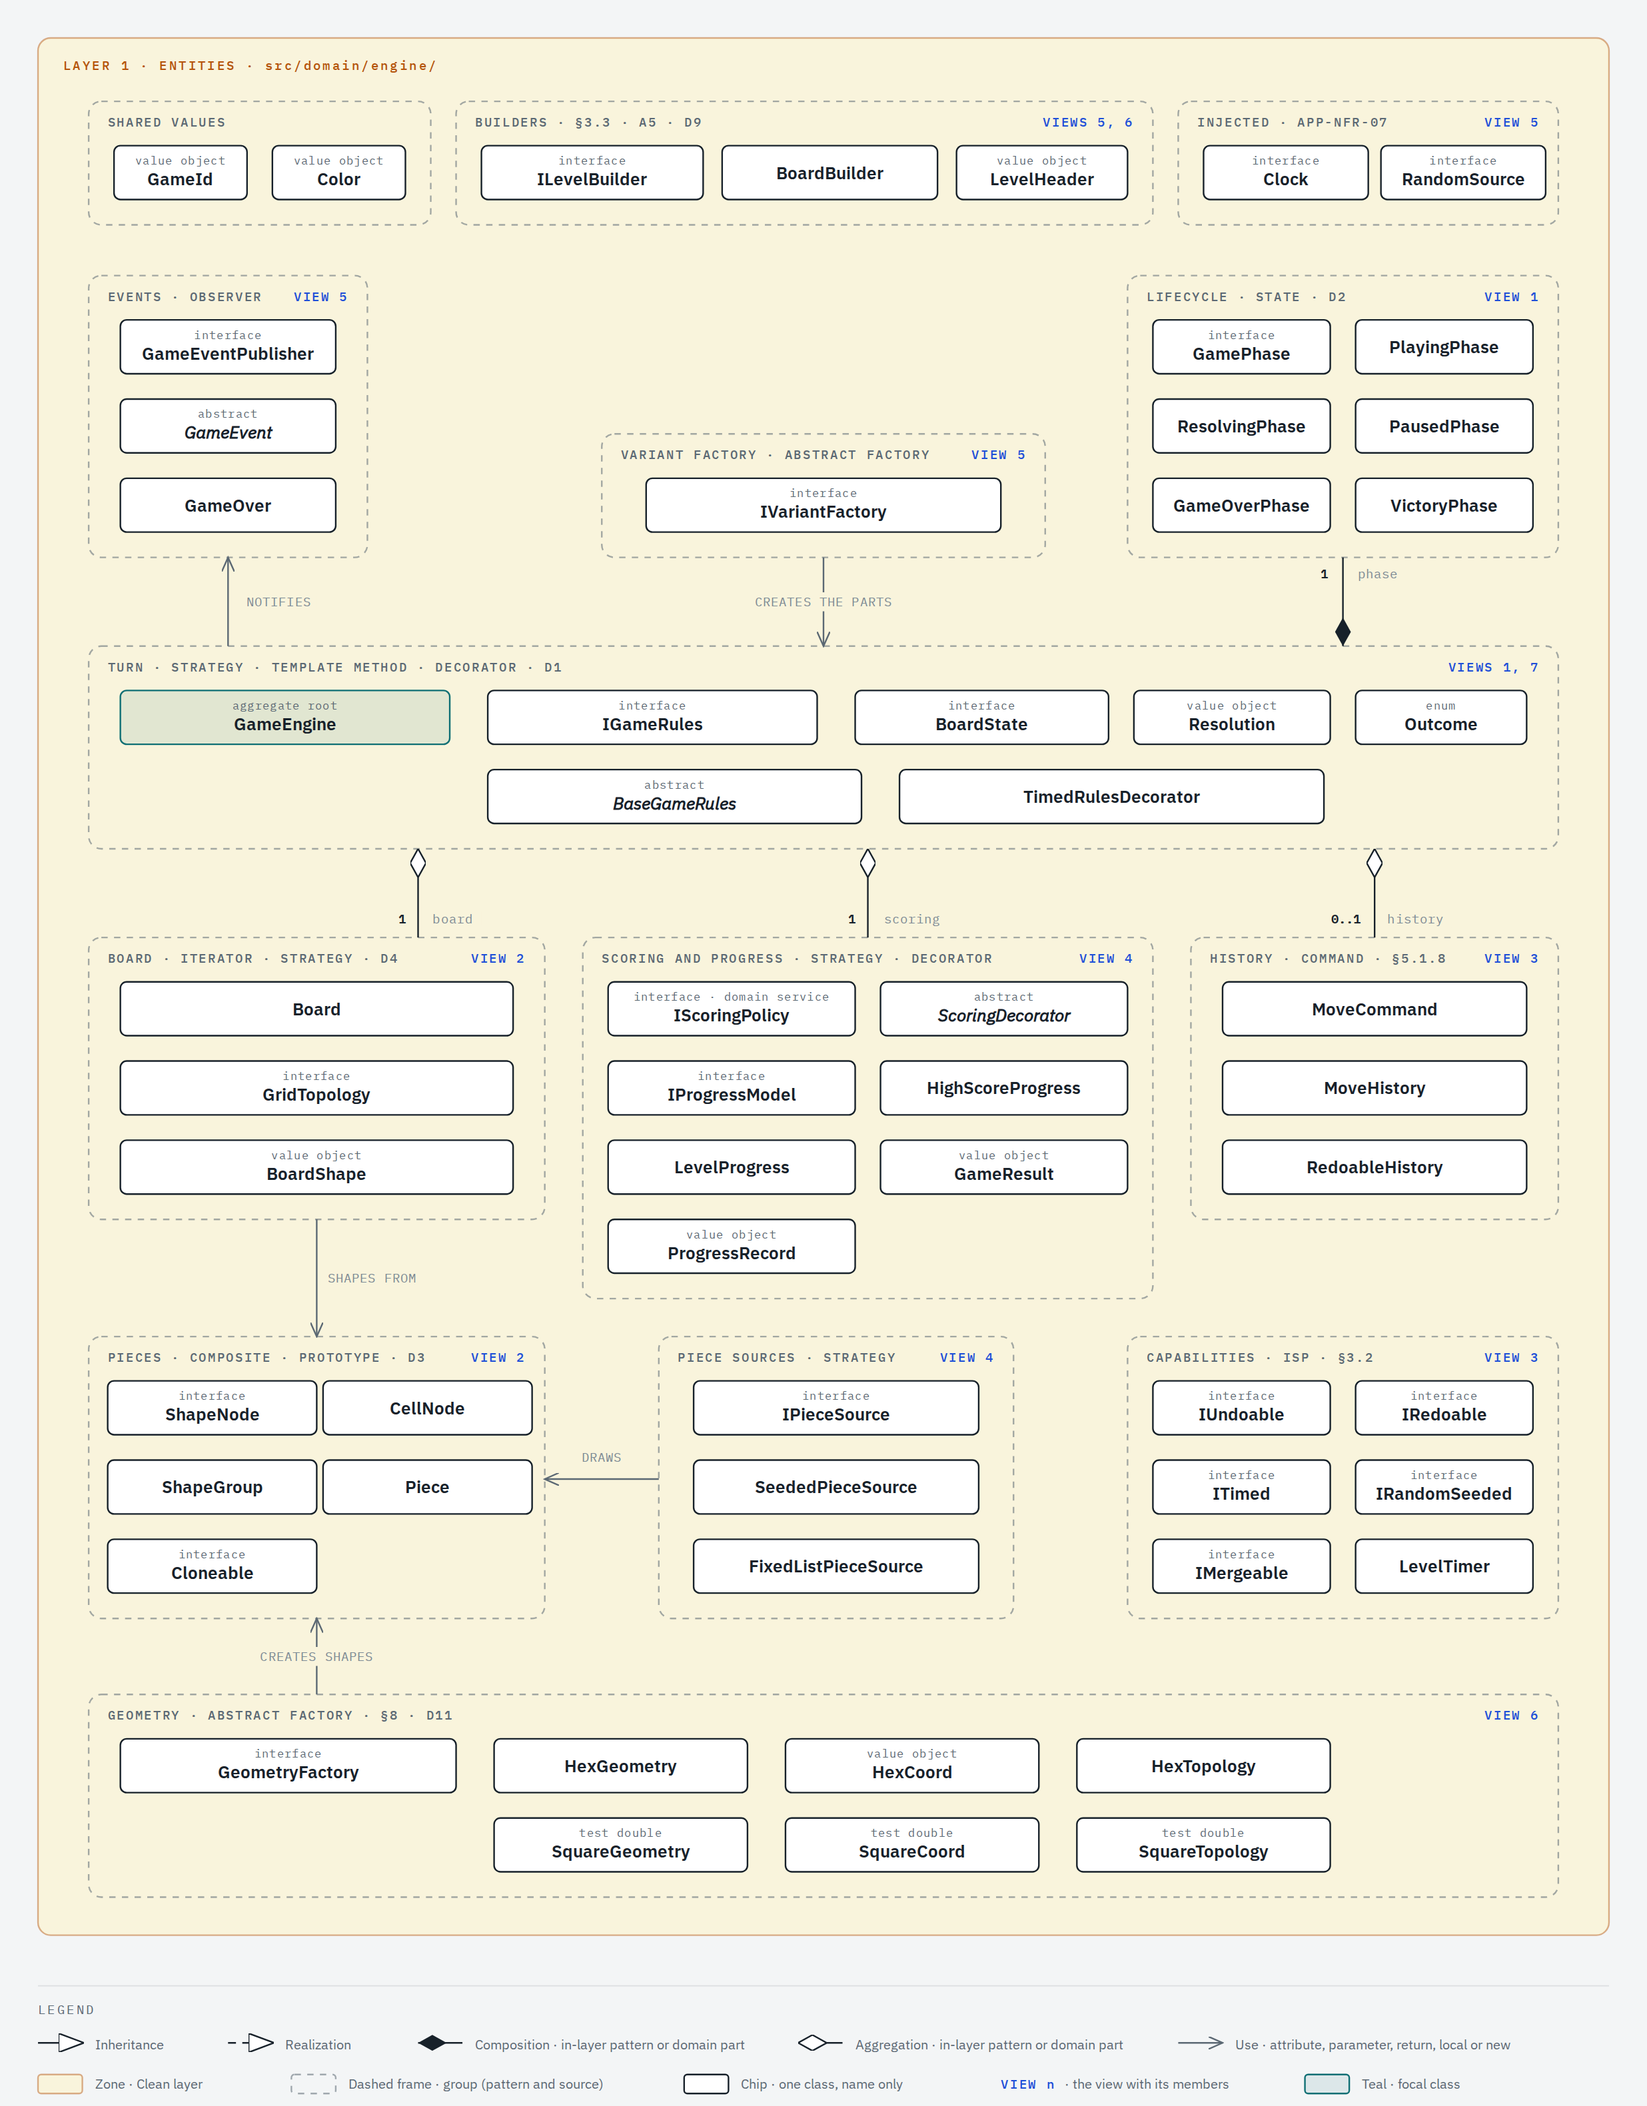
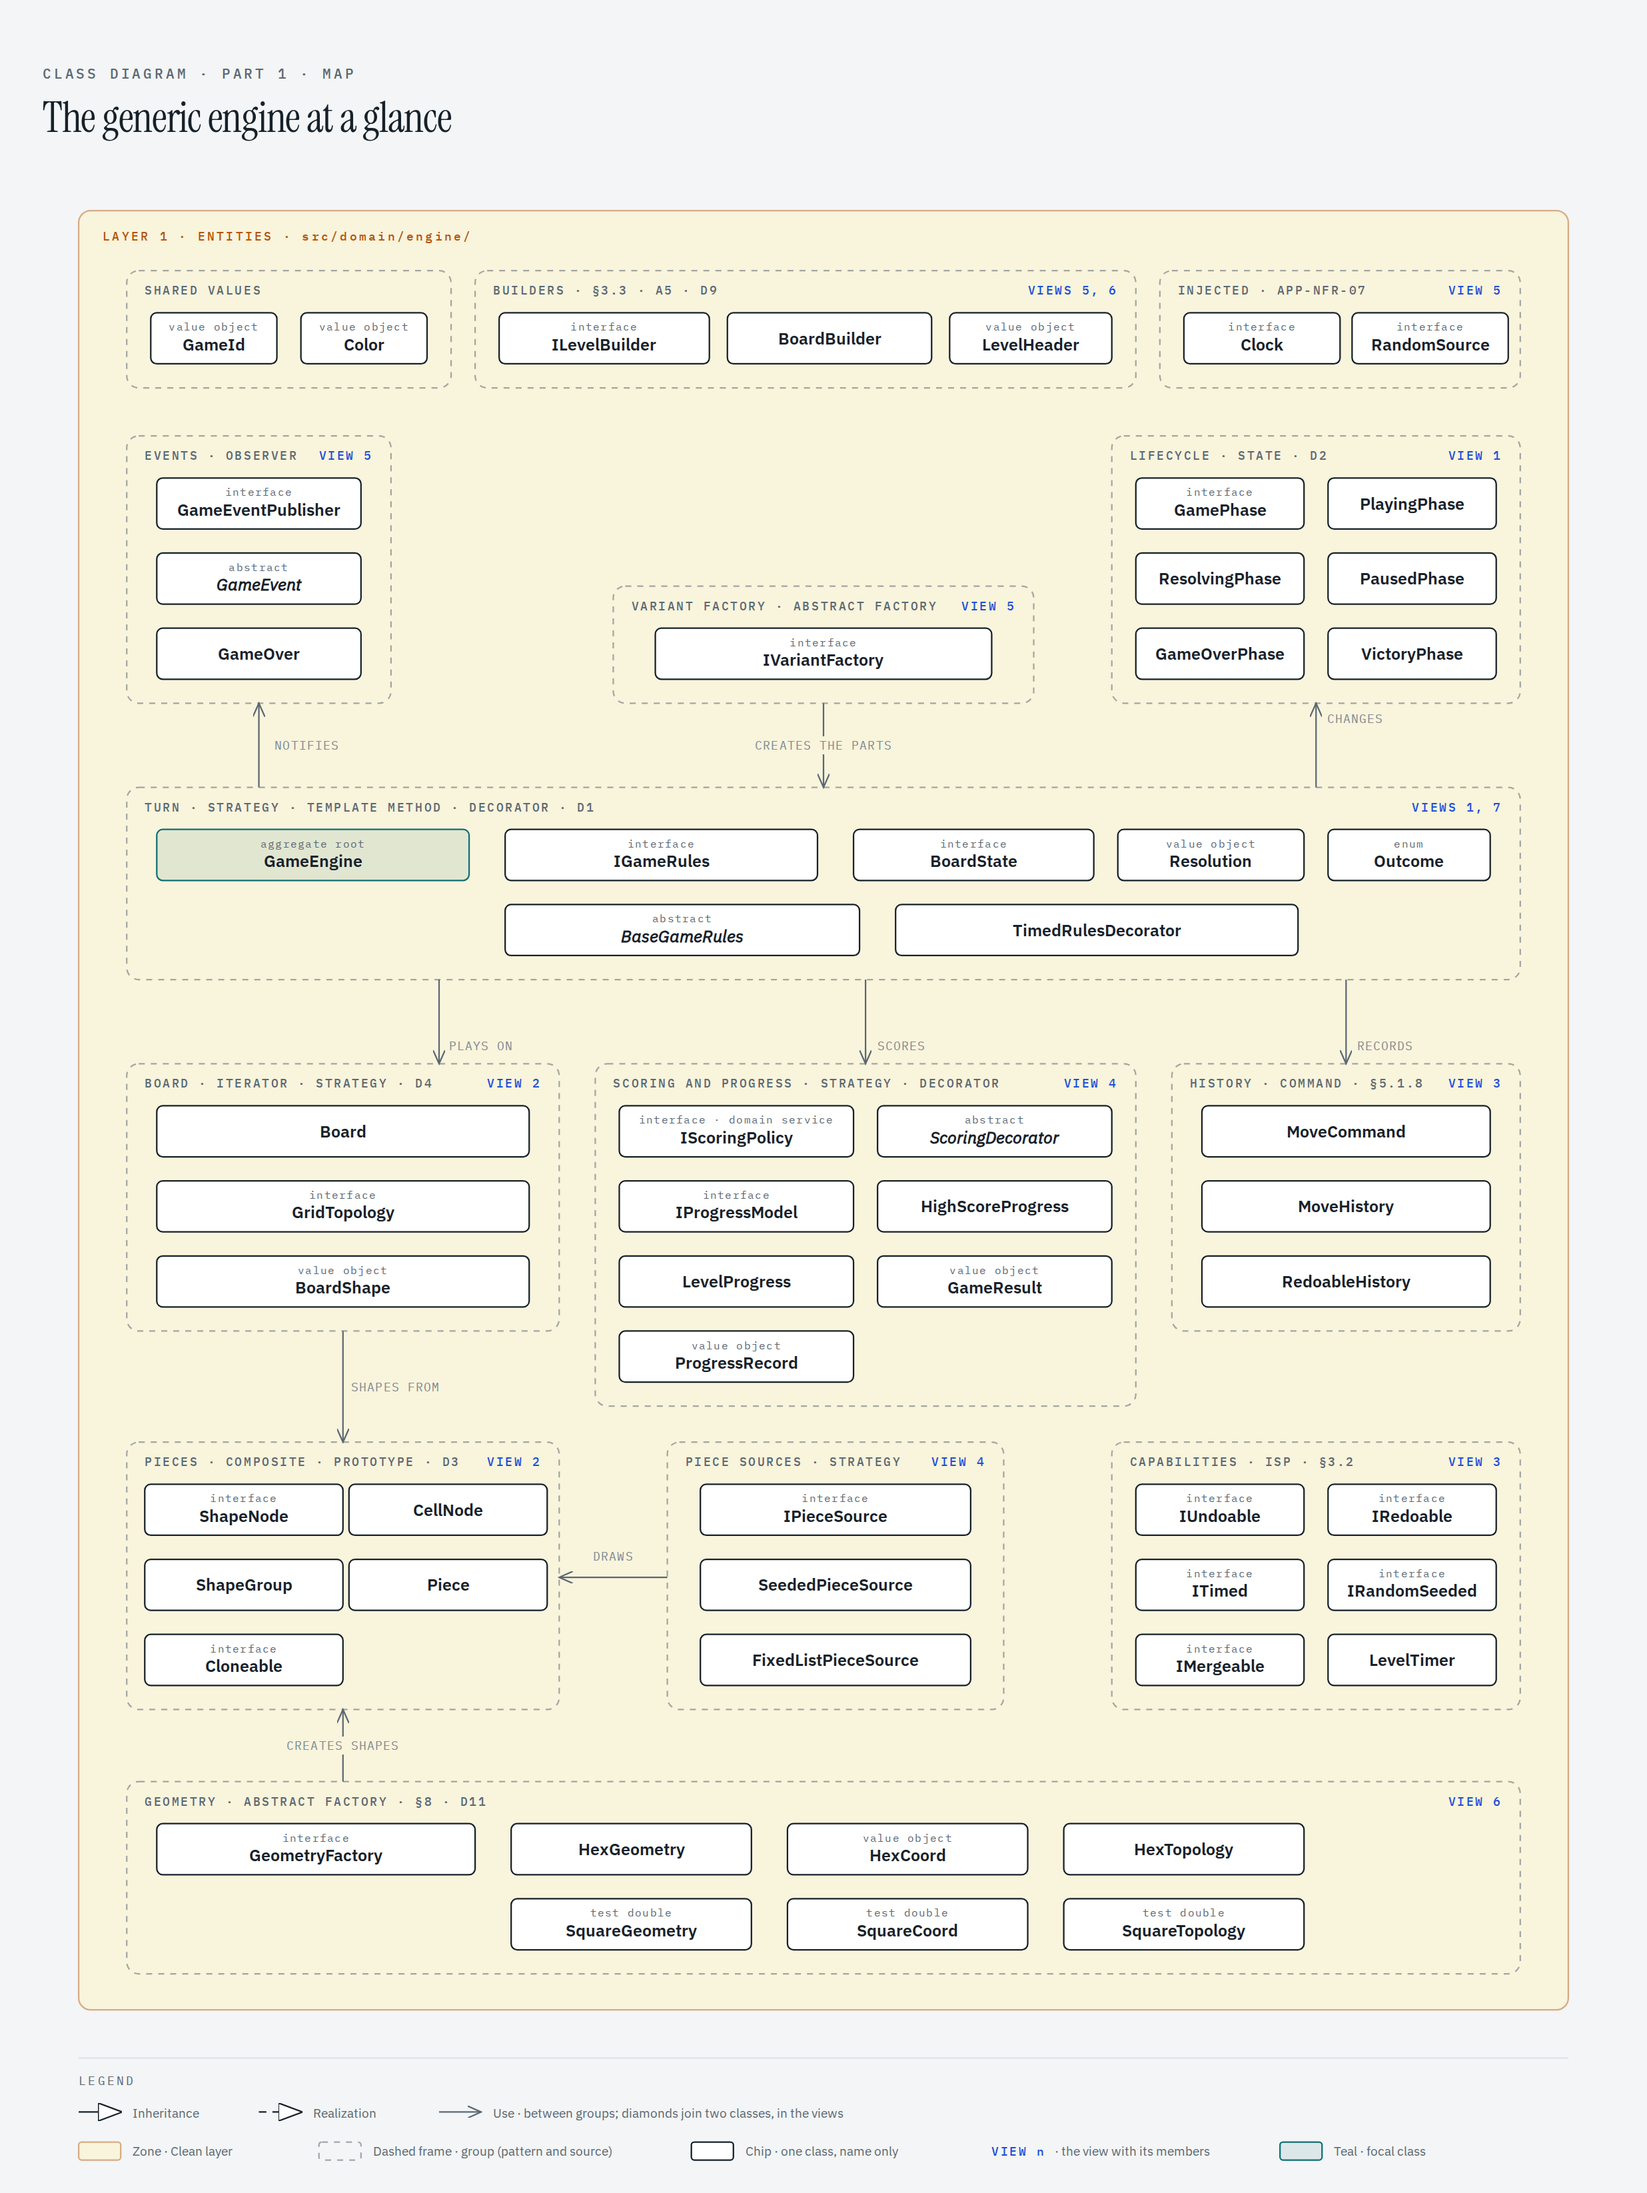
docs(architecture): join groups of the engine map with use arrows, not diamonds

diff --git a/docs/architecture/classes/views/overview-engine.html b/docs/architecture/classes/views/overview-engine.html
@@ -601,35 +601,35 @@
         </text>
 
         <!-- Relationships between groups (drawn before chips) -->
-        <!-- Turn: GameEngine creates its GamePhase phase, up to lifecycle: composition, kept because State holds it -->
+        <!-- Turn uses the lifecycle phases, up: use. Groups join with uses; the diamond between GameEngine and GamePhase is in view 1 -->
         <line
           x1="848"
           y1="408"
           x2="848"
           y2="352"
           stroke-width="1"
-          marker-start="url(#ovengine-diamond-filled)"
-          stroke="#17212a"
+          marker-end="url(#ovengine-open)"
+          stroke="#5b6873"
         />
-        <!-- Turn: GameEngine holds zero or one MoveHistory it receives as history, down: aggregation, kept because the aggregate root holds its part -->
+        <!-- Turn keeps the move history, down: use. The diamond between GameEngine and MoveHistory is in view 3 -->
         <line
           x1="868"
           y1="536"
           x2="868"
           y2="592"
           stroke-width="1"
-          marker-start="url(#ovengine-diamond-hollow)"
-          stroke="#17212a"
+          marker-end="url(#ovengine-open)"
+          stroke="#5b6873"
         />
-        <!-- Turn: GameEngine holds the IScoringPolicy it receives as scoring, down: aggregation, kept because Strategy holds it -->
+        <!-- Turn scores through the scoring group, down: use. The diamond between GameEngine and IScoringPolicy is in view 4 -->
         <line
           x1="548"
           y1="536"
           x2="548"
           y2="592"
           stroke-width="1"
-          marker-start="url(#ovengine-diamond-hollow)"
-          stroke="#17212a"
+          marker-end="url(#ovengine-open)"
+          stroke="#5b6873"
         />
         <!-- Turn notifies through events, up: use -->
         <line
@@ -641,15 +641,15 @@
           marker-end="url(#ovengine-open)"
           stroke="#5b6873"
         />
-        <!-- Turn: BoardState holds the Board it receives as board, down: aggregation, kept because the aggregate holds its part -->
+        <!-- Turn plays on the board group, down: use. The diamond between BoardState and Board is in view 2 -->
         <line
           x1="264"
           y1="536"
           x2="264"
           y2="592"
           stroke-width="1"
-          marker-start="url(#ovengine-diamond-hollow)"
-          stroke="#17212a"
+          marker-end="url(#ovengine-open)"
+          stroke="#5b6873"
         />
         <!-- Board shapes from pieces, down: use -->
         <line
@@ -683,9 +683,9 @@
         />
 
         <!-- Arrow labels -->
-        <rect x="852" y="356" width="36" height="12" rx="2" fill="#f9f4dc" />
+        <rect x="852" y="356" width="44" height="12" rx="2" fill="#f9f4dc" />
         <text
-          x="870"
+          x="874"
           y="365"
           fill="#7d8a94"
           font-size="8"
@@ -693,9 +693,9 @@
           text-anchor="middle"
           letter-spacing="0.06em"
         >
-          phase
+          CHANGES
         </text>
-        <rect x="870" y="574" width="48" height="12" rx="2" fill="#f9f4dc" />
+        <rect x="872" y="574" width="44" height="12" rx="2" fill="#f9f4dc" />
         <text
           x="894"
           y="583"
@@ -705,11 +705,11 @@
           text-anchor="middle"
           letter-spacing="0.06em"
         >
-          history
+          RECORDS
         </text>
-        <rect x="552" y="574" width="48" height="12" rx="2" fill="#f9f4dc" />
+        <rect x="552" y="574" width="40" height="12" rx="2" fill="#f9f4dc" />
         <text
-          x="576"
+          x="572"
           y="583"
           fill="#7d8a94"
           font-size="8"
@@ -717,7 +717,7 @@
           text-anchor="middle"
           letter-spacing="0.06em"
         >
-          scoring
+          SCORES
         </text>
         <rect x="152" y="374" width="48" height="12" rx="2" fill="#f9f4dc" />
         <text
@@ -731,9 +731,9 @@
         >
           NOTIFIES
         </text>
-        <rect x="268" y="574" width="36" height="12" rx="2" fill="#f9f4dc" />
+        <rect x="268" y="574" width="48" height="12" rx="2" fill="#f9f4dc" />
         <text
-          x="286"
+          x="292"
           y="583"
           fill="#7d8a94"
           font-size="8"
@@ -741,7 +741,7 @@
           text-anchor="middle"
           letter-spacing="0.06em"
         >
-          board
+          PLAYS ON
         </text>
         <rect x="202" y="801" width="66" height="12" rx="2" fill="#f9f4dc" />
         <text
@@ -778,54 +778,6 @@
           letter-spacing="0.06em"
         >
           CREATES THE PARTS
-        </text>
-        <rect x="830" y="356" width="12" height="12" rx="2" fill="#f9f4dc" />
-        <text
-          x="836"
-          y="365"
-          fill="#17212a"
-          font-size="8"
-          font-weight="600"
-          font-family="'IBM Plex Mono', monospace"
-          text-anchor="middle"
-        >
-          1
-        </text>
-        <rect x="836" y="574" width="28" height="12" rx="2" fill="#f9f4dc" />
-        <text
-          x="850"
-          y="583"
-          fill="#17212a"
-          font-size="8"
-          font-weight="600"
-          font-family="'IBM Plex Mono', monospace"
-          text-anchor="middle"
-        >
-          0..1
-        </text>
-        <rect x="532" y="574" width="12" height="12" rx="2" fill="#f9f4dc" />
-        <text
-          x="538"
-          y="583"
-          fill="#17212a"
-          font-size="8"
-          font-weight="600"
-          font-family="'IBM Plex Mono', monospace"
-          text-anchor="middle"
-        >
-          1
-        </text>
-        <rect x="248" y="574" width="12" height="12" rx="2" fill="#f9f4dc" />
-        <text
-          x="254"
-          y="583"
-          fill="#17212a"
-          font-size="8"
-          font-weight="600"
-          font-family="'IBM Plex Mono', monospace"
-          text-anchor="middle"
-        >
-          1
         </text>
         <!-- Chips: shared -->
         <g data-class="GameId">
@@ -2360,9 +2312,9 @@
           y1="1290"
           x2="292"
           y2="1290"
-          stroke="#17212a"
+          stroke="#5b6873"
           stroke-width="1"
-          marker-start="url(#ovengine-diamond-filled)"
+          marker-end="url(#ovengine-open)"
         />
         <text
           x="300"
@@ -2371,43 +2323,7 @@
           font-size="8.5"
           font-family="'IBM Plex Sans', sans-serif"
         >
-          Composition · in-layer pattern or domain part
-        </text>
-        <line
-          x1="504"
-          y1="1290"
-          x2="532"
-          y2="1290"
-          stroke="#17212a"
-          stroke-width="1"
-          marker-start="url(#ovengine-diamond-hollow)"
-        />
-        <text
-          x="540"
-          y="1294"
-          fill="#5b6873"
-          font-size="8.5"
-          font-family="'IBM Plex Sans', sans-serif"
-        >
-          Aggregation · in-layer pattern or domain part
-        </text>
-        <line
-          x1="744"
-          y1="1290"
-          x2="772"
-          y2="1290"
-          stroke="#5b6873"
-          stroke-width="1"
-          marker-end="url(#ovengine-open)"
-        />
-        <text
-          x="780"
-          y="1294"
-          fill="#5b6873"
-          font-size="8.5"
-          font-family="'IBM Plex Sans', sans-serif"
-        >
-          Use · attribute, parameter, return, local or new
+          Use · between groups; diamonds join two classes, in the views
         </text>
         <rect
           x="24"

diff --git a/docs/architecture/classes.md b/docs/architecture/classes.md
@@ -16,6 +16,7 @@ This page answers statement §4.1 for the client. It shows the generic types in 
 - An italic class name or operation is abstract.
 - A solid line with an open arrowhead is a use: the other class is an attribute, a parameter, a return value, a local variable or a `new`. Every dependency between two layers is a use. When the class keeps the other class in an attribute, the arrow end names the attribute and its multiplicity, even when it is 1, for example `games 1`. Otherwise the line carries a verb, for example `PLAY()` or `«create»`.
 - Inside one layer, a diamond at the end of the holder marks an attribute only where it shows a pattern (Strategy, Decorator, Composite, Observer, Command, State, Adapter, a builder or a factory that holds its geometry factory) or a domain relation (an aggregate and its parts, an entity and its value objects). It is hollow (aggregation) when the value comes from outside, and filled (composition) when the class creates it. The other end names the attribute and its multiplicity. Any other attribute is a use (decision 23).
+- A map joins two groups (dashed frames) only with a use. A group has no attributes and no multiplicity, so a diamond always joins two classes, in the view that shows them (professor, session of 2026-11-03).
 - In the variant views, a lollipop (a circle on a short line) is an engine interface that the class implements. Its label names the type that each parameter takes, for example `IGameRules‹Color, PlacePiece, LinesState›`.
 - In a map, a chip is one class with its name only. The group header names the view that shows the members, for example `VIEW 2`.
 - In the variants map, a dashed chip is an engine type. Each class in its row implements or extends it.
